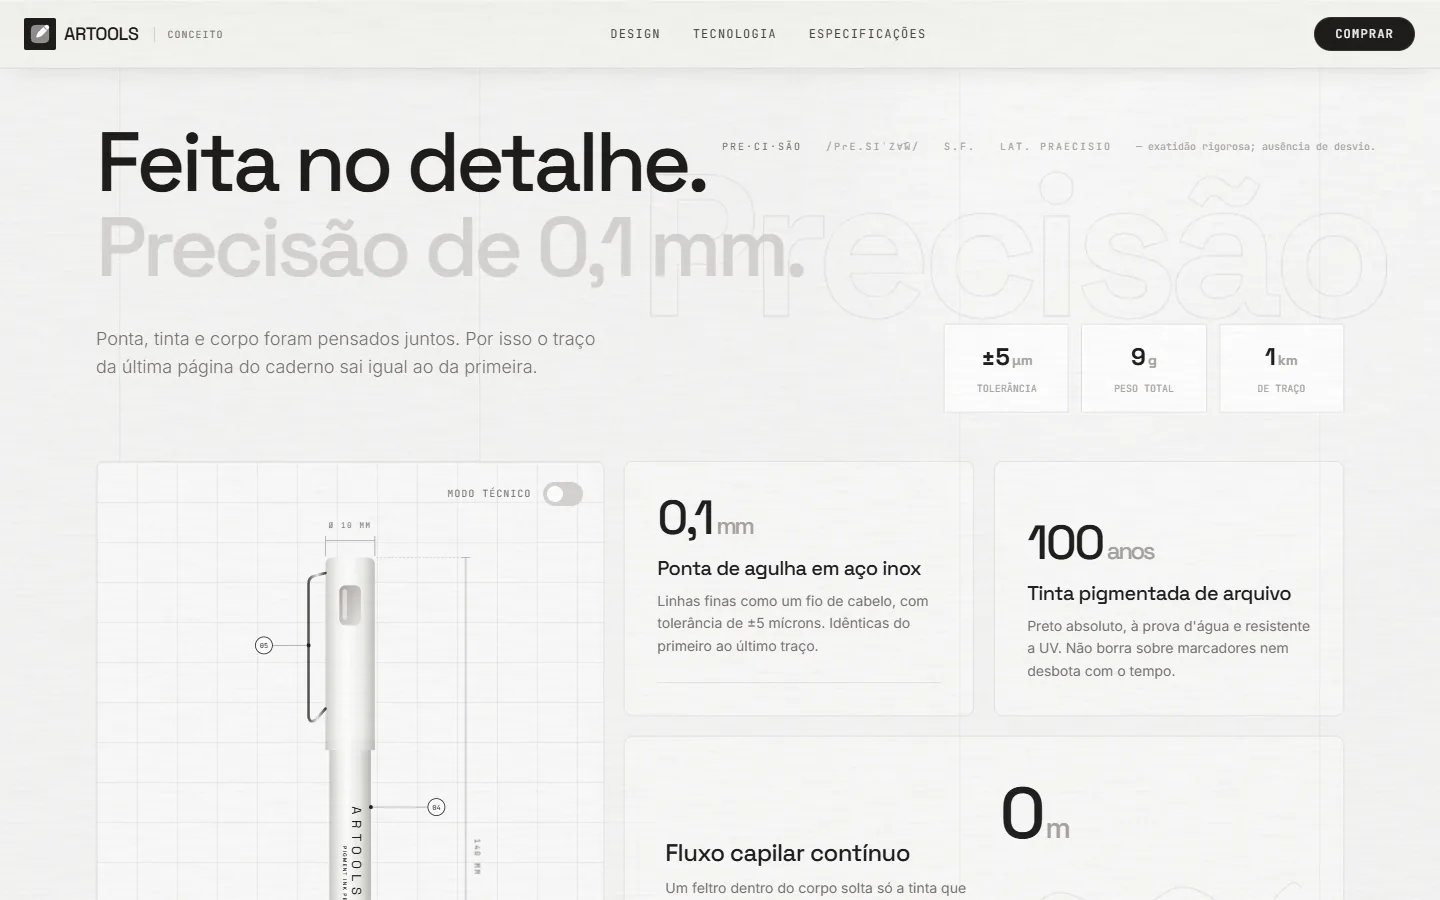
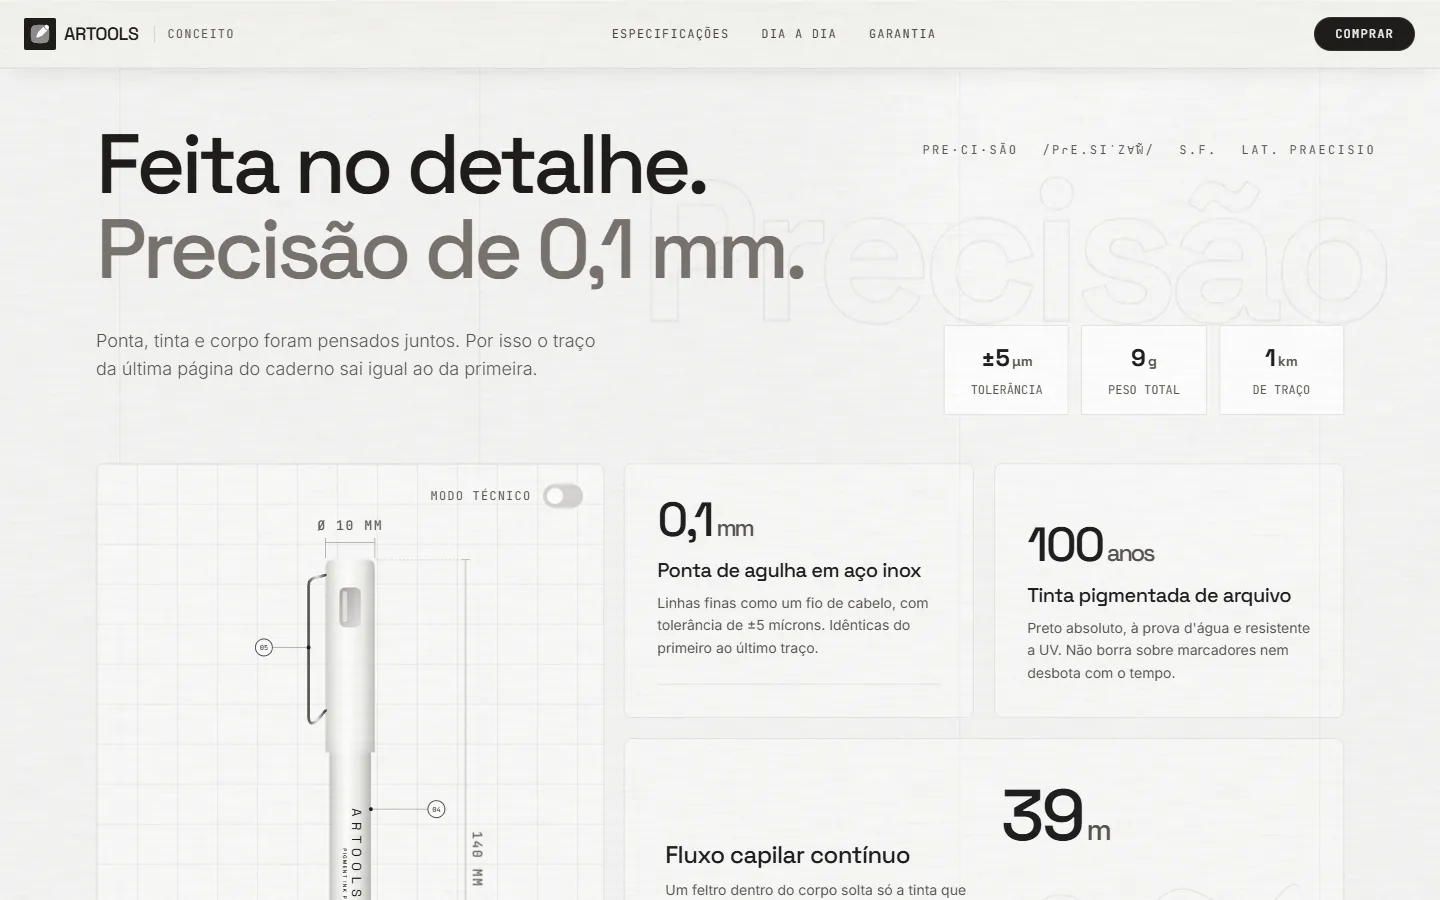
fix: Artools com o dia de quem desenha e prints novos; EasyLog coerente
- Artools: "um dia com a caneta" para quem desenha e escreve à mão; prints de hero, garantia, og e dia refeitos com o texto atual
- EasyLog: #4829 no painel, 92,5% no financeiro, taxas sem verde, contagem do plano coerente (#4830 é a 135ª); telas reexportadas

diff --git a/artools/index.html b/artools/index.html
@@ -1078,7 +1078,7 @@
                             <div class="relative z-10 mt-auto">
                                 <p class="font-display font-medium tracking-tighter text-5xl mb-3">10k<span class="text-2xl text-stone-600 ml-1">ciclos</span></p>
                                 <h3 class="text-xl font-display font-medium tracking-tight mb-2">Clip em aço mola temperado</h3>
-                                <p class="text-sm text-stone-600 leading-relaxed">Volta para o lugar mesmo depois de dez mil aberturas e segura firme no bolso da camisa.</p>
+                                <p class="text-sm text-stone-600 leading-relaxed">Volta para o lugar mesmo depois de dez mil aberturas e segura firme na capa do caderno.</p>
                             </div>
                         </article>
                     </div>
@@ -1149,14 +1149,14 @@
             <div class="relative z-10 border-b border-stone-300 bg-stone-100/50 backdrop-blur-sm py-4 overflow-hidden" aria-hidden="true">
                 <div class="animate-marquee whitespace-nowrap">
                     <span class="mx-8 text-xs font-mono uppercase tracking-widest text-stone-600">07:30 · Café</span><span class="mx-8 inline-block w-px h-3 bg-stone-400 align-middle" aria-hidden="true"></span>
-                    <span class="mx-8 text-xs font-mono uppercase tracking-widest text-stone-600">10:00 · Reunião</span><span class="mx-8 inline-block w-px h-3 bg-stone-400 align-middle" aria-hidden="true"></span>
-                    <span class="mx-8 text-xs font-mono uppercase tracking-widest text-stone-600">13:00 · Em trânsito</span><span class="mx-8 inline-block w-px h-3 bg-stone-400 align-middle" aria-hidden="true"></span>
-                    <span class="mx-8 text-xs font-mono uppercase tracking-widest text-stone-600">16:00 · Revisão</span><span class="mx-8 inline-block w-px h-3 bg-stone-400 align-middle" aria-hidden="true"></span>
+                    <span class="mx-8 text-xs font-mono uppercase tracking-widest text-stone-600">10:00 · Aula</span><span class="mx-8 inline-block w-px h-3 bg-stone-400 align-middle" aria-hidden="true"></span>
+                    <span class="mx-8 text-xs font-mono uppercase tracking-widest text-stone-600">13:00 · Obra</span><span class="mx-8 inline-block w-px h-3 bg-stone-400 align-middle" aria-hidden="true"></span>
+                    <span class="mx-8 text-xs font-mono uppercase tracking-widest text-stone-600">16:00 · Estudo</span><span class="mx-8 inline-block w-px h-3 bg-stone-400 align-middle" aria-hidden="true"></span>
                     <span class="mx-8 text-xs font-mono uppercase tracking-widest text-stone-600">23:40 · Ideia</span><span class="mx-8 inline-block w-px h-3 bg-stone-400 align-middle" aria-hidden="true"></span>
                     <span class="mx-8 text-xs font-mono uppercase tracking-widest text-stone-600">07:30 · Café</span><span class="mx-8 inline-block w-px h-3 bg-stone-400 align-middle" aria-hidden="true"></span>
-                    <span class="mx-8 text-xs font-mono uppercase tracking-widest text-stone-600">10:00 · Reunião</span><span class="mx-8 inline-block w-px h-3 bg-stone-400 align-middle" aria-hidden="true"></span>
-                    <span class="mx-8 text-xs font-mono uppercase tracking-widest text-stone-600">13:00 · Em trânsito</span><span class="mx-8 inline-block w-px h-3 bg-stone-400 align-middle" aria-hidden="true"></span>
-                    <span class="mx-8 text-xs font-mono uppercase tracking-widest text-stone-600">16:00 · Revisão</span><span class="mx-8 inline-block w-px h-3 bg-stone-400 align-middle" aria-hidden="true"></span>
+                    <span class="mx-8 text-xs font-mono uppercase tracking-widest text-stone-600">10:00 · Aula</span><span class="mx-8 inline-block w-px h-3 bg-stone-400 align-middle" aria-hidden="true"></span>
+                    <span class="mx-8 text-xs font-mono uppercase tracking-widest text-stone-600">13:00 · Obra</span><span class="mx-8 inline-block w-px h-3 bg-stone-400 align-middle" aria-hidden="true"></span>
+                    <span class="mx-8 text-xs font-mono uppercase tracking-widest text-stone-600">16:00 · Estudo</span><span class="mx-8 inline-block w-px h-3 bg-stone-400 align-middle" aria-hidden="true"></span>
                     <span class="mx-8 text-xs font-mono uppercase tracking-widest text-stone-600">23:40 · Ideia</span><span class="mx-8 inline-block w-px h-3 bg-stone-400 align-middle" aria-hidden="true"></span>
                 </div>
             </div>
@@ -1198,7 +1198,7 @@
                                 <div class="flex items-end justify-between gap-4 lg:block">
                                     <div>
                                         <p id="day-clock" class="day-fg font-display font-medium tracking-tighter tabular-nums leading-none text-stone-900 text-5xl md:text-7xl lg:text-[7rem]">07:30</p>
-                                        <p id="day-moment" class="day-muted mt-2 lg:mt-4 font-mono text-xs uppercase tracking-widest text-stone-600">Lista do café</p>
+                                        <p id="day-moment" class="day-muted mt-2 lg:mt-4 font-mono text-xs uppercase tracking-widest text-stone-600">Esboço do café</p>
                                     </div>
                                     <!-- tinta (mobile) -->
                                     <div class="lg:hidden text-right shrink-0">
@@ -1266,7 +1266,7 @@
 
                         <!-- 07:30 -->
                         <article class="day-card flashlight-card group rounded-xl border border-white/50 bg-white/60 backdrop-blur-md shadow-lg hover:shadow-xl transition-all duration-500 p-7 md:p-10"
-                            data-time="07:30" data-moment="Lista do café" data-ink="100" data-night="0">
+                            data-time="07:30" data-moment="Esboço do café" data-ink="100" data-night="0">
                             <div class="relative z-10">
                                 <div class="flex items-center justify-between mb-8">
                                     <span class="text-xs font-mono uppercase tracking-widest text-stone-600 border border-stone-200 px-2 py-1 rounded-sm bg-stone-50">07:30</span>
@@ -1275,7 +1275,7 @@
                                     </div>
                                 </div>
                                 <h3 class="text-2xl md:text-3xl font-display font-normal tracking-tight mb-3 group-hover:translate-x-2 transition-transform duration-300">Destampou, escreveu.</h3>
-                                <p class="text-sm md:text-base text-stone-600 leading-relaxed max-w-md mb-8">Nada de rabiscar o canto da folha para a tinta "pegar". A tinta sai na primeira encostada no papel, toda manhã.</p>
+                                <p class="text-sm md:text-base text-stone-600 leading-relaxed max-w-md mb-8">Nada de rabiscar o canto da folha para a tinta "pegar". O primeiro traço do esboço da manhã já sai inteiro.</p>
                                 <svg viewBox="0 0 400 40" class="w-full max-w-md h-10 overflow-visible" aria-hidden="true">
                                     <path class="day-stroke" pathLength="1" d="M2 28 C 30 6, 52 34, 80 18 S 130 8, 160 22 S 210 34, 240 16 S 300 8, 330 20 S 380 30, 398 14"
                                         fill="none" stroke="#1c1917" stroke-width="1.5" stroke-linecap="round" />
@@ -1285,7 +1285,7 @@
 
                         <!-- 10:00 -->
                         <article class="day-card flashlight-card group rounded-xl border border-white/50 bg-white/60 backdrop-blur-md shadow-lg hover:shadow-xl transition-all duration-500 p-7 md:p-10"
-                            data-time="10:00" data-moment="Reunião que importa" data-ink="99.4" data-night="0">
+                            data-time="10:00" data-moment="Anotação de aula" data-ink="99.4" data-night="0">
                             <div class="relative z-10">
                                 <div class="flex items-center justify-between mb-8">
                                     <span class="text-xs font-mono uppercase tracking-widest text-stone-600 border border-stone-200 px-2 py-1 rounded-sm bg-stone-50">10:00</span>
@@ -1298,11 +1298,11 @@
                                 <div class="grid grid-cols-2 gap-3 max-w-md">
                                     <div class="p-4 rounded-lg border border-dashed border-stone-300 bg-stone-100/60">
                                         <span class="block font-mono text-xs uppercase tracking-widest text-stone-600 mb-3">Caneta comum</span>
-                                        <span class="block font-display text-xl text-stone-600 blur-[1.5px] skew-x-[-8deg] opacity-80">Reunião 10h</span>
+                                        <span class="block font-display text-xl text-stone-600 blur-[1.5px] skew-x-[-8deg] opacity-80">Ponto de fuga</span>
                                     </div>
                                     <div class="p-4 rounded-lg border border-stone-200 bg-white shadow-sm">
                                         <span class="block font-mono text-xs uppercase tracking-widest text-stone-600 mb-3">Pigmentum</span>
-                                        <span class="block font-display text-xl text-stone-900">Reunião 10h</span>
+                                        <span class="block font-display text-xl text-stone-900">Ponto de fuga</span>
                                     </div>
                                 </div>
                             </div>
@@ -1310,17 +1310,17 @@
 
                         <!-- 13:00 -->
                         <article class="day-card flashlight-card group rounded-xl border border-white/50 bg-white/60 backdrop-blur-md shadow-lg hover:shadow-xl transition-all duration-500 p-7 md:p-10 relative overflow-hidden"
-                            data-time="13:00" data-moment="Bolso, bolsa, avião" data-ink="98.9" data-night="0.12">
-                            <iconify-icon icon="solar:plain-2-linear" class="absolute -right-4 -bottom-6 text-[10rem] text-stone-200/70 group-hover:-translate-y-2 group-hover:translate-x-2 transition-transform duration-700 z-0"></iconify-icon>
+                            data-time="13:00" data-moment="Visita à obra" data-ink="98.9" data-night="0.12">
+                            <iconify-icon icon="solar:buildings-2-linear" class="absolute -right-4 -bottom-6 text-[10rem] text-stone-200/70 group-hover:-translate-y-2 group-hover:translate-x-2 transition-transform duration-700 z-0"></iconify-icon>
                             <div class="relative z-10">
                                 <div class="flex items-center justify-between mb-8">
                                     <span class="text-xs font-mono uppercase tracking-widest text-stone-600 border border-stone-200 px-2 py-1 rounded-sm bg-stone-50">13:00</span>
                                     <div class="day-icon w-12 h-12 rounded-full bg-gradient-to-br from-stone-100 to-stone-200 border border-stone-100 flex items-center justify-center text-xl shadow-inner">
-                                        <iconify-icon icon="solar:case-linear"></iconify-icon>
+                                        <iconify-icon icon="solar:ruler-pen-linear"></iconify-icon>
                                     </div>
                                 </div>
                                 <h3 class="text-2xl md:text-3xl font-display font-normal tracking-tight mb-3 group-hover:translate-x-2 transition-transform duration-300">Vai com você. Não vaza em você.</h3>
-                                <p class="text-sm md:text-base text-stone-600 leading-relaxed max-w-md">Tampa vedada e clip de aço que segura firme. No bolso da camisa, no fundo da bolsa ou dentro do avião, a sua roupa continua limpa.</p>
+                                <p class="text-sm md:text-base text-stone-600 leading-relaxed max-w-md">Tampa vedada e clip de aço que segura firme. Presa na prancheta durante a visita à obra ou solta no fundo da mochila, ela não mancha nada.</p>
                             </div>
                         </article>
 
@@ -1338,7 +1338,7 @@
                                 <p class="text-sm md:text-base text-stone-600 leading-relaxed max-w-md mb-8">O pigmento se fixa nas fibras do papel e não se dissolve. Pode grifar, pintar ou derramar café por cima que o traço fica onde você deixou.</p>
                                 <!-- Hover: marca-texto passa por cima (sem apagar o traço) -->
                                 <div class="relative inline-block">
-                                    <span class="relative z-10 font-display text-2xl md:text-3xl text-stone-900">Ideia aprovada.</span>
+                                    <span class="relative z-10 font-display text-2xl md:text-3xl text-stone-900">Cai na prova.</span>
                                     <span class="absolute left-[-4px] right-[-4px] bottom-1 h-4 bg-stone-300/70 mix-blend-multiply origin-left scale-x-0 group-hover:scale-x-100 transition-transform duration-700 ease-out rounded-sm"></span>
                                 </div>
                             </div>
@@ -1358,7 +1358,7 @@
                                     </div>
                                 </div>
                                 <h3 class="text-2xl md:text-3xl font-display font-normal tracking-tight mb-3 group-hover:translate-x-2 transition-transform duration-300">Esqueceu destampada? Ela esperou.</h3>
-                                <p class="text-sm md:text-base text-stone-400 leading-relaxed max-w-md mb-8">A ideia chegou à meia-noite e a caneta estava largada sem tampa desde a tarde. A ponta aguenta até 24 horas aberta sem ressecar, então ainda estava pronta.</p>
+                                <p class="text-sm md:text-base text-stone-400 leading-relaxed max-w-md mb-8">A ideia de um desenho chegou à meia-noite, e a caneta estava largada sem tampa desde a tarde. A ponta aguenta até 24 horas aberta sem ressecar, então ainda estava pronta.</p>
                                 <div class="flex items-end gap-10">
                                     <div>
                                         <span class="block font-display font-medium tracking-tighter text-5xl">24<span class="text-2xl text-stone-400 ml-1">h</span></span>

diff --git a/estudo-de-caso-artools.html b/estudo-de-caso-artools.html
@@ -309,8 +309,8 @@ footer .wrap{display:flex;flex-wrap:wrap;justify-content:space-between;gap:10px}
       </dl>
     </div>
     <figure class="hero-media rv">
-      <div class="shot"><img src="assets/projects/artools-case/hero.webp" width="1440" height="900" alt="Primeira tela da landing na versão anterior: o título 'A caneta mais tecnológica do mundo.' ao lado da caneta branca Artools Pigmentum, com os botões Comprar agora e Explorar." fetchpriority="high"></div>
-      <figcaption>A primeira tela da landing, no computador, antes da revisão de novembro. Hoje o título é "A caneta que escreve um quilômetro." (veja <a href="#revisao">Revisão</a>).</figcaption>
+      <div class="shot"><img src="assets/projects/artools-case/hero.webp" width="1440" height="900" alt="Primeira tela da landing: o título 'A caneta que escreve um quilômetro.' ao lado da caneta branca Artools Pigmentum, com os botões Comprar agora e Explorar." fetchpriority="high"></div>
+      <figcaption>A primeira tela da landing, no computador. Até a revisão de novembro, o título era "A caneta mais tecnológica do mundo." (veja <a href="#revisao">Revisão</a>).</figcaption>
     </figure>
   </section>
 
@@ -443,7 +443,7 @@ footer .wrap{display:flex;flex-wrap:wrap;justify-content:space-between;gap:10px}
         <p>"Escreva por 30 dias. Se falhar, é por nossa conta." Com ela a pessoa compra com menos medo, e a marca mostra que confia na caneta. A ideia é que quase ninguém precise usar.</p>
         <p>Ela cobre defeito: a caneta que falhar em 30 dias é trocada, com frete pago. Na primeira versão, a pergunta desta seção era "E se eu me arrepender?" e o texto falava em devolver o dinheiro, o que ia além dessa regra. Corrigi as duas coisas (veja <a href="#revisao">Revisão</a>).</p>
       </div>
-      <figure class="rv"><div class="shot"><img src="assets/projects/artools-case/garantia.webp" width="1440" height="900" loading="lazy" alt="Seção escura da garantia na versão anterior: 'Escreva por 30 dias. Se falhar, é por nossa conta.' e um cartão com 30 dias, troca imediata, frete de devolução e reembolso."></div><figcaption>A garantia antes da revisão, ainda com a linha de reembolso.</figcaption></figure>
+      <figure class="rv"><div class="shot"><img src="assets/projects/artools-case/garantia.webp" width="1440" height="900" loading="lazy" alt="Seção escura da garantia: 'Escreva por 30 dias. Se falhar, é por nossa conta.' e um cartão com 30 dias de garantia contra defeito, troca imediata, frete de devolução e a linha que diz que a garantia cobre falha da caneta, não arrependimento."></div></figure>
     </div>
 
     <div class="part">
@@ -561,7 +561,6 @@ footer .wrap{display:flex;flex-wrap:wrap;justify-content:space-between;gap:10px}
         </tbody>
       </table>
     </div>
-    <p class="cap rv">As imagens desta página mostram a versão anterior. A <a href="artools/index.html" target="_blank" rel="noopener">landing ao vivo</a> já está com os textos novos.</p>
 
     <h3 class="rv" id="revisao-publico" style="margin:48px 0 8px">Revisão: o público não combinava com o produto</h3>
     <p class="muted rv" style="max-width:66ch;margin-bottom:20px">Um avaliador apontou que o público e o produto não batiam. O case falava de profissionais que assinam documentos e escolhem caneta como escolhem relógio, mas a Pigmentum é uma fineliner de ponta 0,1 mm, e ninguém assina contrato com uma. A própria landing já falava com outra pessoa: "Marca-texto, aquarela, café. Pode vir." e um dia inteiro anotando. Mantive o produto e troquei o público por quem desenha e escreve à mão. A caneta continua cara, e quem paga por ela paga pela qualidade do traço.</p>
@@ -574,11 +573,13 @@ footer .wrap{display:flex;flex-wrap:wrap;justify-content:space-between;gap:10px}
           <tr><td>Quando compra</td><td class="before">Versão nova, edição de colecionador ou refil.</td><td>Quando a caneta atual acaba, quando quer outra espessura de ponta ou quando vê alguém desenhando com uma melhor.</td></tr>
           <tr><td>Pergunta da seção 5</td><td class="before">Combina comigo?</td><td>Como fica o traço?</td></tr>
           <tr><td>Conversa simulada</td><td class="before">Tratada como hipótese.</td><td>Hipótese ainda mais fraca, porque os perfis foram montados para o público antigo.</td></tr>
-          <tr><td>Próximos passos</td><td class="before">Edição de colecionador e textos sobre estilo e status.</td><td>Outras espessuras de ponta e um dia a dia com a rotina de quem desenha.</td></tr>
+          <tr><td>Um dia com a caneta</td><td class="before">Uma rotina de escritório: "Reunião que importa" às 10:00, com "Reunião 10h" como exemplo de anotação, e "Bolso, bolsa, avião" às 13:00, com a caneta no bolso da camisa e dentro do avião. A frase grifada às 16:00 era "Ideia aprovada."</td><td>Um dia de quem desenha e anota: o esboço do café às 07:30, a anotação de aula às 10:00 ("Ponto de fuga"), a visita à obra às 13:00, com a caneta presa na prancheta ou solta na mochila, e "Cai na prova." grifado às 16:00. Às 23:40, a ideia que chega é a de um desenho.</td></tr>
+          <tr><td>Cartão do clip</td><td class="before">Segura firme no bolso da camisa.</td><td>Segura firme na capa do caderno.</td></tr>
+          <tr><td>Próximos passos</td><td class="before">Edição de colecionador e textos sobre estilo e status.</td><td>Outras espessuras de ponta.</td></tr>
         </tbody>
       </table>
     </div>
-    <p class="cap rv">O público novo também é suposição. Combina melhor com o que a landing já mostrava, mas ninguém desse grupo viu a página até agora. Os textos da landing não mudaram com a troca, porque nenhum falava de status ou de assinar documentos.</p>
+    <p class="cap rv">O público novo também é suposição. Combina melhor com o que a landing já mostrava, mas ninguém desse grupo viu a página até agora. Na troca, quase todos os textos da landing ficaram como estavam, porque nenhum falava de status ou de assinar documentos. O "um dia com a caneta" era a exceção: seguia a agenda de um escritório, e reescrevi os momentos sem mudar os horários, o título nem o desenho da seção.</p>
 
     <h3 class="rv" style="margin:48px 0 8px">Como nasceu o vídeo da abertura</h3>
     <p class="muted rv" style="max-width:66ch;margin-bottom:20px">Criei no Gemini a imagem do primeiro quadro e a do último. Depois usei o Google Flow, com o modelo Veo 3, para gerar a transição entre os dois.</p>
@@ -606,7 +607,6 @@ footer .wrap{display:flex;flex-wrap:wrap;justify-content:space-between;gap:10px}
       <li><iconify-icon icon="lucide:shopping-cart"></iconify-icon>Carrinho como compra principal, com o WhatsApp como apoio.</li>
       <li><iconify-icon icon="lucide:refresh-cw"></iconify-icon>Venda de refil, para quem já tem a caneta.</li>
       <li><iconify-icon icon="lucide:layers"></iconify-icon>Outras espessuras de ponta, soltas ou em kit, para quem desenha com pesos de linha diferentes.</li>
-      <li><iconify-icon icon="lucide:pen-line"></iconify-icon>Rever o "um dia com a caneta", que ainda segue uma rotina de escritório (reunião, bolso da camisa, avião), e trocar por momentos de quem desenha: o esboço, a planta, a página do caderno.</li>
       <li><iconify-icon icon="lucide:clipboard-check"></iconify-icon>Um teste com ilustradores, designers, arquitetos e estudantes de design, com tarefas para cumprirem sozinhos.</li>
     </ul>
 

diff --git a/estudo-de-caso-easylog.html b/estudo-de-caso-easylog.html
@@ -488,8 +488,8 @@ footer .wrap{display:flex;flex-wrap:wrap;justify-content:space-between;gap:10px}
         <p>O lojista informa o tamanho da carga, e o app sugere o veículo: moto até 20 kg, carro até 200 kg, utilitário até 650 kg. O pedido só vai para motoristas com veículo compatível. Assim o motorista de moto não recebe um pedido de duas latas de tinta de 18 litros.</p>
       </div>
       <figure class="rv" style="max-width:300px;justify-self:center">
-        <div class="phone"><img src="assets/projects/easylog-case/lojista-veiculo-valor.webp" width="360" height="800" loading="lazy" alt="Nova entrega, etapa 3 de 3: utilitário leve recomendado para a carga, 4,6 km da loja ao destino, frete de R$ 34,50 com 100% para o motorista, taxa EasyLog de R$ 0,00 dentro do plano e o aviso de que é a entrega 143 de 200."></div>
-        <figcaption>Antes de pedir, o lojista vê na mesma tela o frete, a taxa zerada e em que ponto do pacote está ("entrega 143 de 200").</figcaption>
+        <div class="phone"><img src="assets/projects/easylog-case/lojista-veiculo-valor.webp" width="360" height="800" loading="lazy" alt="Nova entrega, etapa 3 de 3: utilitário leve recomendado para a carga, 4,6 km da loja ao destino, frete de R$ 34,50 com 100% para o motorista, taxa EasyLog de R$ 0,00 dentro do plano e o aviso de que é a entrega 135 de 200."></div>
+        <figcaption>Antes de pedir, o lojista vê na mesma tela o frete, a taxa zerada e em que ponto do pacote está ("entrega 135 de 200"). A entrega conta no pacote quando é criada, por isso o painel, à tarde, já mostra 142.</figcaption>
       </figure>
     </div>
 
